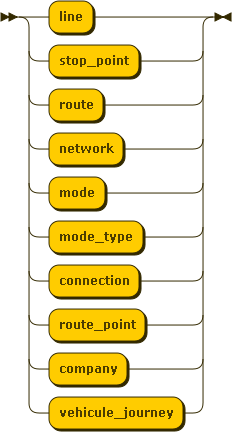
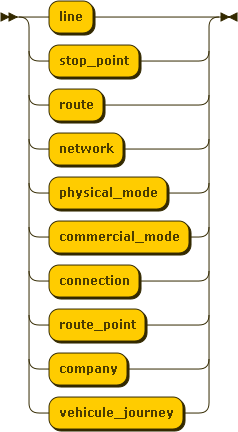
Documentation : mise à jour des schémas
ajout d’un laïus sur le TC
et séparation en plusieurs documents

diff --git a/documentation/source/navitia_io/public_transport.rst b/documentation/source/navitia_io/public_transport.rst
@@ -1,0 +1,65 @@
+.. _pt_introduction:
+
+A small introduction to public transportation data
+==================================================
+
+Introduction
+------------
+
+The world of public transportation is really specific, you will see here a small 
+introduction to it. A lot of people in the world of public transportation use 
+different words to speak about the same thing. Here are the definitions of terms
+employed in www.navitia.io
+
+Stop Point
+----------
+
+A stop point is the physical object were someone waits for his bus
+(subway, or whatever type of vehicle you can have in a public transport system).
+
+Stop Area
+---------
+
+A stop area is a collection of stop points. Generally there are at least two stop
+points per stop area, one per direction of a line. Now think of a hub, you will
+have more than one line. Therefore your stop area will contain more than two stop
+points. In particular cases your stop area can contain only one stop point.
+
+Some datasets do not contain any stop area.
+
+
+Connection
+----------
+
+This object links two stop points together (named origin and
+destination). It is the walkable part of a journey.
+
+
+Journey Pattern
+---------------
+
+A journey pattern is an ordered list of stop points. Two vehicles that serve exactly the
+same stop points in exactly the same order belong to to the same journey pattern.
+
+
+Route
+-----
+
+A route is a collection of journey pattern that match the same commercial direction. 
+
+.. warning::
+    The GTFS specification uses the term *route* for the object we call *line*. It does not
+    have this notion of commercial direction.
+
+Line
+----
+
+A line is a collection of routes. Most of the time you'll just have just two routes.
+This object is called *route* in the GTFS format.
+
+Stop Time
+-----------
+
+A stop time represents the time when a bus is planned to arrive and to leave a
+stop point. 
+

diff --git a/documentation/source/navitia_io/details.rst b/documentation/source/navitia_io/details.rst
@@ -1,0 +1,63 @@
+.. _details::
+
+Some important details
+----------------------
+
+Working on a specific region
+****************************
+
+In the first examples, the positions are given by coordinates and no network is specified.
+
+
+However when no coordinates are provided, you need to provide on what region you want to request.
+
+The list of region covered by *navitia* are available at http://api.navitia.io/v0/regions.json . The shape of the region
+is provided in `GeoJSON <http://www.geojson.org/geojson-spec.html>`_.
+
+
+More about entry points
+***********************
+
+In the first example, we used coordinates. If you want to use any other point (e.g. a stop point), just
+use its uri. The uri of the different objects are returned by APIs as proximity list.
+
+
+You should not try to build an uri by yourself, but only re-use those provided by an API. The only
+exceptions are coordinates that have the following syntax ``coord:lon:lat``.
+
+The filter parameter
+********************
+
+The filter argument used for requesting public transport object are defined by the grammar defined below. See the previous examples
+`Exploring the public transport objects`_ to know how to use it
+
+**filter**
+
+.. figure:: ptref_grammar/filter.png
+
+**selector**
+
+.. figure:: ptref_grammar/selector.png
+
+**object**
+
+.. figure:: ptref_grammar/object.png
+    
+**attribute**
+
+.. figure:: ptref_grammar/attribute.png
+
+**bin_op**
+
+.. figure:: ptref_grammar/bin_op.png
+    
+
+**value**
+
+.. figure:: ptref_grammar/value.png
+
+**escaped_value**
+
+.. figure:: ptref_grammar/escaped_value.png
+
+
